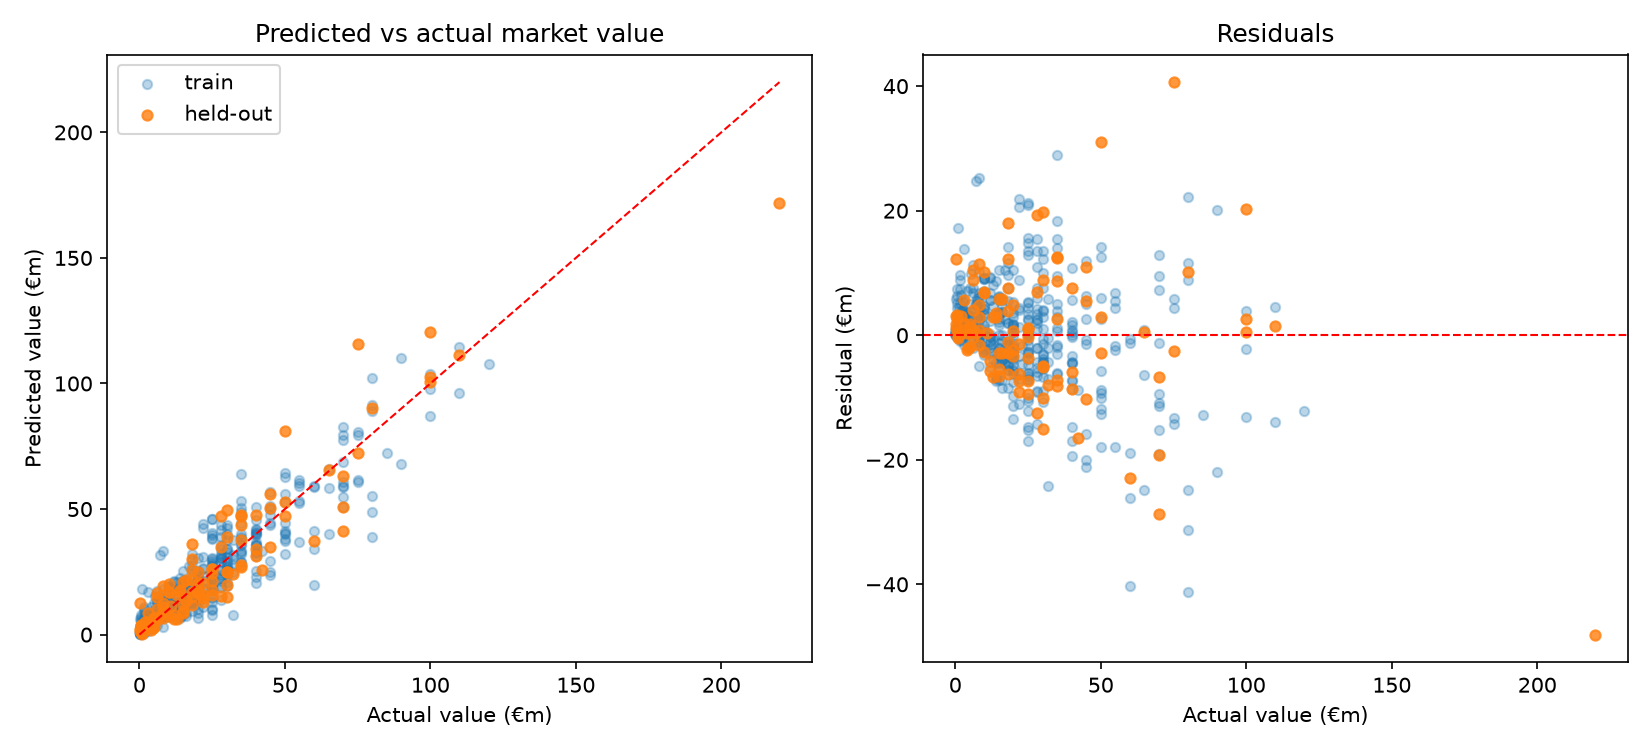
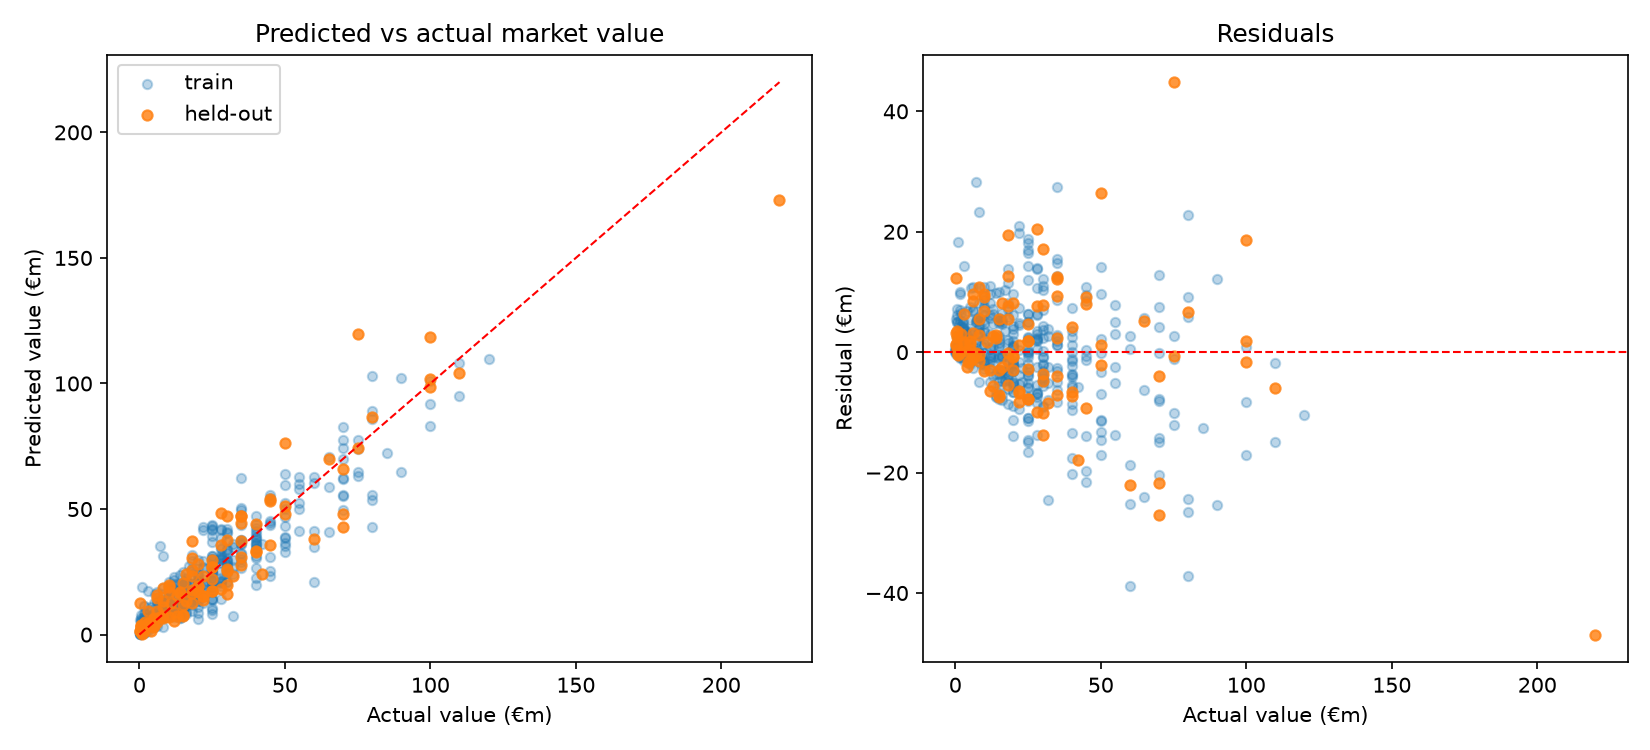
Let the age curve bend, and keep the judgement that found the problem
Asked to mark where the model was wrong, squad by squad, a reader flagged 25
players across four clubs. Their direction matched the model's own error in 24
of them, which is a stronger outside check than this project has had. More
usefully, the two groups separated on one feature: the players said to be
under-valued averaged 27 years old, the over-valued ones 23.6.

That pointed at the age curve. A parabola is symmetric, and the one this data
fits peaks at 21 - too young - so the model asked too much for teenagers (median
predicted/actual 1.13 at ages 20-23) and too little for players in their prime.
Two hinge terms, at 23 and 29, let the curve bend without letting it wander.

  CV MAE            EUR6.76m -> EUR6.64m   (6 standard errors, 100 paired folds)
  top-decile MAE    EUR15.4m -> EUR14.6m
  R^2 (log)         0.754 -> 0.759

Honest about what this does not do. Across the individually flagged players it
helps six and hurts five: Saka moves 1.13 -> 1.01 and Sesko 1.12 -> 1.06, both
exactly as reported, while Bruno Fernandes and Alisson go the wrong way. The
aggregate is better and the top decile is better; the specific cases are not
solved.

The labels are now a fixture with a test, so a later change cannot quietly
reverse errors a reader already flagged. It asserts a floor rather than
perfection - these are opinions, and one of them (Merino) disagrees with
Transfermarkt rather than with the model - and skips when the dataset is absent.
[…]

diff --git a/backend/tests/test_human_labels.py b/backend/tests/test_human_labels.py
@@ -1,0 +1,82 @@
+"""Check the model against a reader's judgement, squad by squad.
+
+Aggregate error hides things a person notices immediately. These labels caught
+the age curve: a plain parabola peaks at 21 on this data, so the model asked too
+much for teenagers and too little for players in their prime, and no summary
+metric said so.
+
+The labels are opinion, not truth - at least one disagrees with Transfermarkt
+rather than with the model - so this asserts a floor rather than perfection. It
+is here to catch a change that quietly reverses the direction of the errors a
+reader already flagged.
+"""
+
+from pathlib import Path
+
+import numpy as np
+import pandas as pd
+import pytest
+from sklearn.model_selection import KFold
+
+from backend.config import PROCESSED_DATASET_PATH
+from backend.features import add_derived_features, split_features_target
+from backend.model import build_pipeline, fit_pipeline
+
+LABELS = Path(__file__).parent / "fixtures" / "human_labels.csv"
+# Two dozen opinions cannot demand perfection; this catches a reversal.
+MINIMUM_AGREEMENT = 0.80
+
+
+def _labelled_predictions() -> pd.DataFrame:
+    df = add_derived_features(pd.read_csv(PROCESSED_DATASET_PATH))
+    X, y = split_features_target(df)
+
+    # Out-of-fold: a model scoring players it trained on flatters itself.
+    predicted = pd.Series(0.0, index=df.index)
+    for train_idx, test_idx in KFold(5, shuffle=True, random_state=42).split(X):
+        fitted = fit_pipeline(build_pipeline(), X.iloc[train_idx], y.iloc[train_idx])
+        predicted.iloc[test_idx] = fitted.predict(X.iloc[test_idx])
+    df["ratio"] = np.expm1(predicted) / df.market_value_eur
+
+    labels = pd.read_csv(LABELS, comment="#")
+    merged = labels.merge(df[["name", "ratio"]], on="name", how="left")
+    return merged.dropna(subset=["ratio"])
+
+
+@pytest.fixture(scope="module")
+def judged():
+    if not PROCESSED_DATASET_PATH.exists():
+        pytest.skip("no dataset; run python -m backend.sources.build_dataset")
+    return _labelled_predictions()
+
+
+def test_labels_still_refer_to_players_in_the_dataset(judged):
+    """A squad turns over; a label pointing at nobody is quietly dead weight."""
+    labels = pd.read_csv(LABELS, comment="#")
+
+    assert len(judged) >= len(labels) - 2, (
+        f"only {len(judged)} of {len(labels)} labelled players are still in the "
+        "dataset - refresh the fixture"
+    )
+
+
+def test_model_errors_point_the_way_a_reader_says_they_do(judged):
+    under = (judged.direction == "under") & (judged.ratio < 1)
+    over = (judged.direction == "over") & (judged.ratio > 1)
+    agreement = (under | over).mean()
+
+    disagreed = judged[~(under | over)].name.tolist()
+    assert agreement >= MINIMUM_AGREEMENT, (
+        f"only {agreement:.0%} of flagged players err in the direction reported; "
+        f"disagreements: {disagreed}"
+    )
+
+
+def test_the_two_directions_really_do_separate(judged):
+    """If "asks too little" and "asks too much" had the same median ratio, the
+    labels would be noise and this file would be measuring nothing."""
+    under = judged[judged.direction == "under"].ratio.median()
+    over = judged[judged.direction == "over"].ratio.median()
+
+    assert under < 1 < over
+    assert over - under > 0.3

diff --git a/backend/features.py b/backend/features.py
@@ -9,6 +9,8 @@ from sklearn.model_selection import train_test_split
 NUMERIC_FEATURES = [
     "age",
     "age_squared",
+    "age_past_23",
+    "age_past_29",
     "has_fpl_record",
     "minutes_share",
     "has_hist_record",
@@ -29,12 +31,23 @@ TARGET = "market_value_eur"
 # One match's worth of minutes. Below this a player has effectively not featured.
 ONE_MATCH_MINUTES = 90
 
+# Knots for the age curve. A plain parabola is forced to be symmetric, and the
+# one this data fits peaks at 21 - too young, so it asks too much for teenagers
+# and too little for players in their late twenties. Letting the curve bend at
+# these two ages fixes the shape without giving it enough freedom to wander.
+AGE_KNOTS = (23, 29)
+
 
 def add_derived_features(df: pd.DataFrame) -> pd.DataFrame:
     """Add the features computed from raw columns (returns a copy).
 
-    - ``age_squared``: value peaks in the mid-20s and falls off on both sides,
-      which a straight line in age can't express (worth ~+0.1 CV R^2).
+    - ``age_squared`` and ``age_past_23`` / ``age_past_29``: value peaks in the
+      mid-20s and falls off on both sides, which a straight line can't express.
+      A parabola alone is not enough either - being symmetric, the one this data
+      fits peaks at 21, so it asks too much for teenagers (median predicted /
+      actual 1.13 at ages 20-23) and too little for players at their peak. Two
+      hinge terms let the curve bend at 23 and 29 (MAE EUR6.76m -> EUR6.69m,
+      6 standard errors over 100 paired folds; top-decile EUR15.4m -> EUR15.0m).
     - ``minutes_share``: this season's FPL minutes as a fraction of those
       available, so regulars stand out and the feature stays comparable as the
       season goes on. Defaults to 0 when there is no FPL data (or before
@@ -99,6 +112,8 @@ def add_derived_features(df: pd.DataFrame) -> pd.DataFrame:
     """
     out = df.copy()
     out["age_squared"] = out["age"] ** 2
+    for knot in AGE_KNOTS:
+        out[f"age_past_{knot}"] = (out["age"] - knot).clip(lower=0)
 
     has_fpl_columns = {"fpl_minutes", "fpl_starts", "fpl_gameweeks"} <= set(out.columns)
     gameweeks = out["fpl_gameweeks"].clip(lower=1) if has_fpl_columns else None

diff --git a/README.md b/README.md
@@ -83,7 +83,8 @@ seeds at this dataset size.
 | + PL history from the season archive | 0.69 | €7.9m | €19.1m |
 | + the newest season on its own | 0.70 | €7.4m | €16.7m |
 | + what the club actually paid | 0.72 | €7.0m | €15.8m |
-| + **"not playing" read properly** | **0.75** | **€6.7m** | **€14.9m** |
+| + "not playing" read properly | 0.75 | €6.7m | €14.9m |
+| + **an age curve that bends** | **0.76** | **€6.6m** | **€14.6m** |
 
 Four findings worth keeping in mind:
 
@@ -102,6 +103,15 @@ Four findings worth keeping in mind:
   (R² 0.673 -> 0.655, MAE €8.25m -> €8.51m). Form from six years ago says little
   about today's value, and it doesn't reach the players who are missing history
   anyway - they're new, not old. `SEASONS` stays at four.
+- **A reader spotted what the metrics could not.** Asked to mark where the model
+  was wrong, squad by squad, someone flagged 25 players across four clubs. Their
+  direction matched the model's own error in 24 of them — and the group they said
+  was under-valued averaged 27 years old against 23.6 for the over-valued group.
+  That pointed at the age curve: a plain parabola is symmetric, and the one this
+  data fits peaks at 21, so it asked too much for teenagers and too little for
+  players in their prime. Two hinge terms at 23 and 29 fixed the shape
+  (MAE €6.76m → €6.64m, 6 standard errors). The labels are kept in
+  `backend/tests/fixtures/human_labels.csv` and checked by a test.
 - **A month out of the side is not evidence.** Several well-known players came
   out badly under-valued — Alisson at €5.7m against a market €15m, Grealish at
   €9.7m against €20m. It looked like an age problem and was not: players aged
